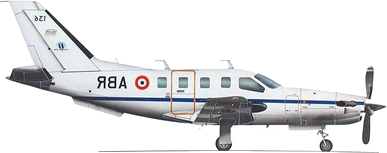
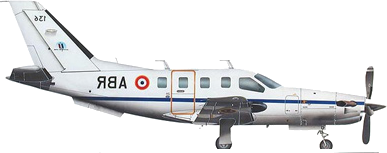
v1.6.2 : ajout de l'Airbus A330 (25 000 pts, x1,85) + correction du TBM 700
- Nouvel avion A330 entre l'A320 et le Falcon 900
- TBM 700 : suppression de la ligne de sol qui laissait un bloc blanc
  entre les roues

Claude-Session: https://claude.ai/code/session_01CLDEEXkDnRG4JSgva32MjM

Changed region(s): [[0.2481, 0.9673, 0.9302, 0.9935]]

diff --git a/js/config.js b/js/config.js
@@ -52,6 +52,8 @@ const CONFIG = {
       desc: 'Le best-seller du ciel. +55 % de vitesse.' },
     { id: 'a320',      name: 'Airbus A320',       cost: 15000,  speedMult: 1.75, width: 21,
       desc: 'Ligne majeure. +75 % de vitesse.' },
+    { id: 'a330',      name: 'Airbus A330',       cost: 25000,  speedMult: 1.85, width: 23,
+      desc: 'Long-courrier élégant. +85 % de vitesse.' },
     { id: 'falcon900', name: 'Falcon 900',        cost: 35000,  speedMult: 2.0,  width: 17,
       desc: 'Jet présidentiel. Vitesse x2.' },
     { id: 'a380',      name: 'Airbus A380',       cost: 80000,  speedMult: 2.2,  width: 25,